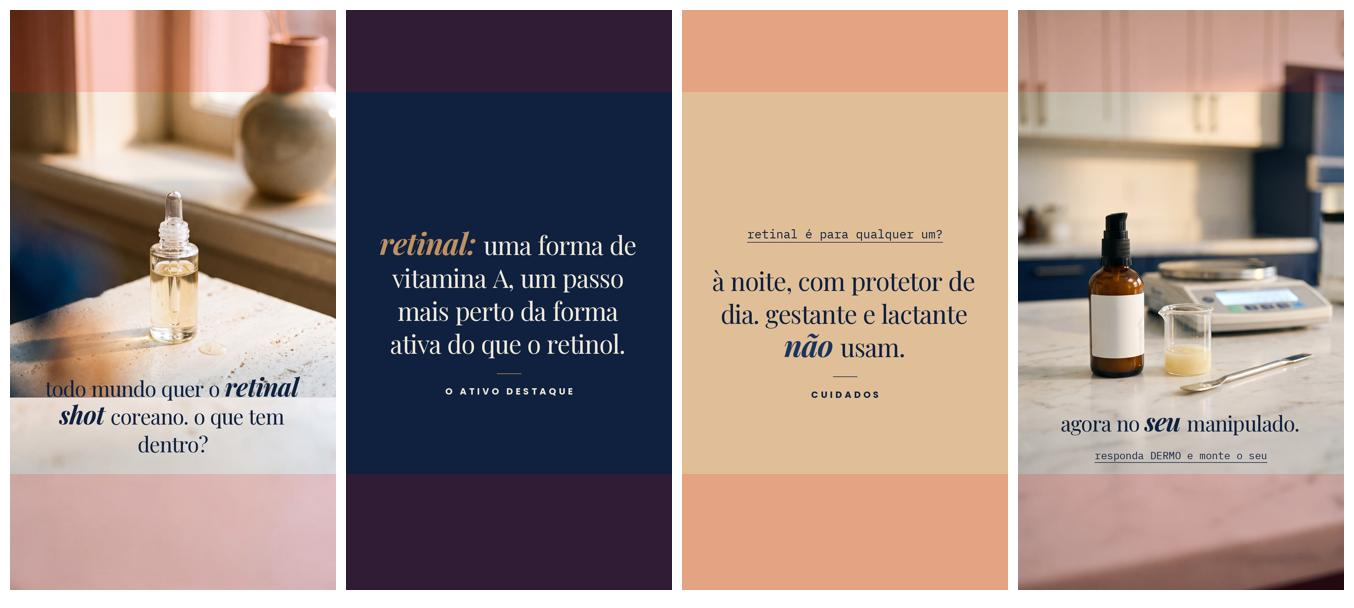
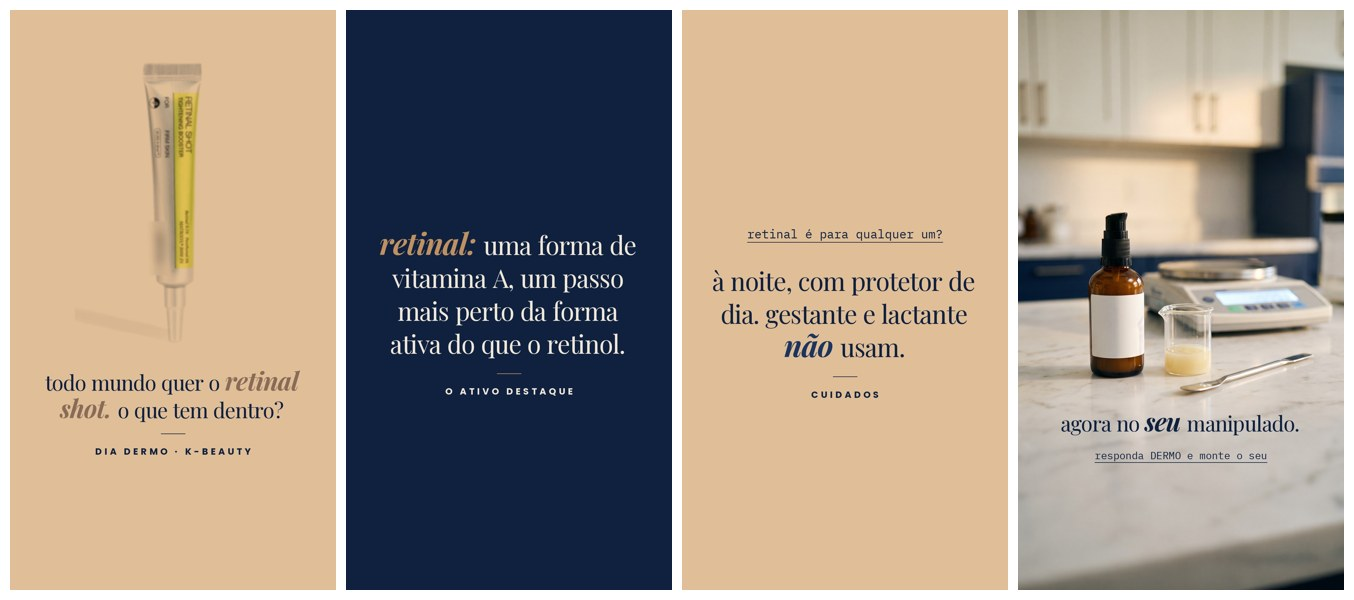
Dia Dermo: story 1 com o produto de referência em destaque (ofuscado)
Claude-Session: https://claude.ai/code/session_01Bm6rABw341qEUcQn2o9EUx

diff --git a/grade/campanha-nov/referencia_story.py b/grade/campanha-nov/referencia_story.py
@@ -1,0 +1,29 @@
+"""Story 1 do Dia Dermo: foto do produto de referência em destaque e ofuscada.
+Leva desfoque leve no produto inteiro e desfoque forte na marca.
+O fundo cinza do packshot é normalizado para branco e multiplicado sobre a cor da marca.
+Leva frase em Playfair e rótulo em Poppins. Story sem logo.
+Uso: python3 -I referencia_story.py <foto> <saida.jpg> "<frase>" "<RÓTULO>" "<recorte x0,y0,x1,y1 px>" "<marca x0,y0,x1,y1 px>" [areia|offwhite]
+"""
+import sys
+from pathlib import Path
+from PIL import Image, ImageChops, ImageDraw, ImageFilter, ImageFont
+sys.path.insert(0, str(Path(__file__).resolve().parent))
+from modelos import frase_linhas, desenha_frase, espacado, COR, A
+cx = lambda s: tuple(int(v) for v in s.split(","))
+def story(foto, saida, frase, rotulo, recorte, marca, fundo="areia"):
+    W, H = 1080, 1920; base = Image.new("RGB", (W, H), COR[fundo])
+    src = Image.open(foto).convert("RGB"); bg = src.getpixel((5, 5))
+    src = Image.merge("RGB", [c.point(lambda v, b=b: min(255, round(v * 255 / max(b, 1) * 1.05))) for c, b in zip(src.split(), bg)])
+    m = cx(marca); src.paste(src.crop(m).filter(ImageFilter.GaussianBlur(10)), m[:2])   # marca ilegível
+    p = src.crop(cx(recorte)).filter(ImageFilter.GaussianBlur(1.6))                     # ofuscado no todo
+    alt = 1020; p = p.resize((round(p.width * alt / p.height), alt), Image.LANCZOS)
+    x, y = (W - p.width) // 2, 130
+    reg = base.crop((x, y, x + p.width, y + p.height)); base.paste(ImageChops.multiply(reg, p), (x, y))
+    d = ImageDraw.Draw(base); tam = 70; linhas = frase_linhas(frase, tam, W - 200)
+    yf = desenha_frase(d, W, 1190, linhas, tam, COR["marinho"], COR["cafe"] if fundo == "areia" else COR["caramelo"])
+    d.line([(W/2 - 40, yf + 30), (W/2 + 40, yf + 30)], fill=COR["marinho"], width=2)
+    espacado(d, W/2, yf + 100, rotulo.upper(), ImageFont.truetype(str(A/"fonts"/"Poppins-Bold.ttf"), 30), COR["marinho"], 9)
+    assert yf + 100 < 1536, "texto abaixo da área segura"
+    base.save(saida, "JPEG", quality=92)
+if __name__ == "__main__":
+    a = sys.argv[1:] + ["areia"]; story(*a[:7])

diff --git a/docs/13-portal-instagram.md b/docs/13-portal-instagram.md
@@ -142,3 +142,7 @@ flowchart LR
   - Revisão farmacêutica obrigatória, porque retinal é retinoide e há a questão da concentração e da regra de cosmético.
   - Os stories que ocupavam 25/11 viraram Ideia em 03/12.
   - Arquivos em `grade/pacotes/dia-dermo/`.
+- Story 1 do Dia Dermo (pedido do Ricardo, 12/11): **foto do produto de referência em destaque, ofuscada**.
+  - É a foto de loja do produto: desfoque leve no todo e desfoque forte na marca. O fundo cinza vira a cor da marca.
+  - Gerador: `grade/campanha-nov/referencia_story.py`.
+  - A foto de terceiro não vai para o repositório (`.gitignore`) e fica só na pasta local e no Storage.
